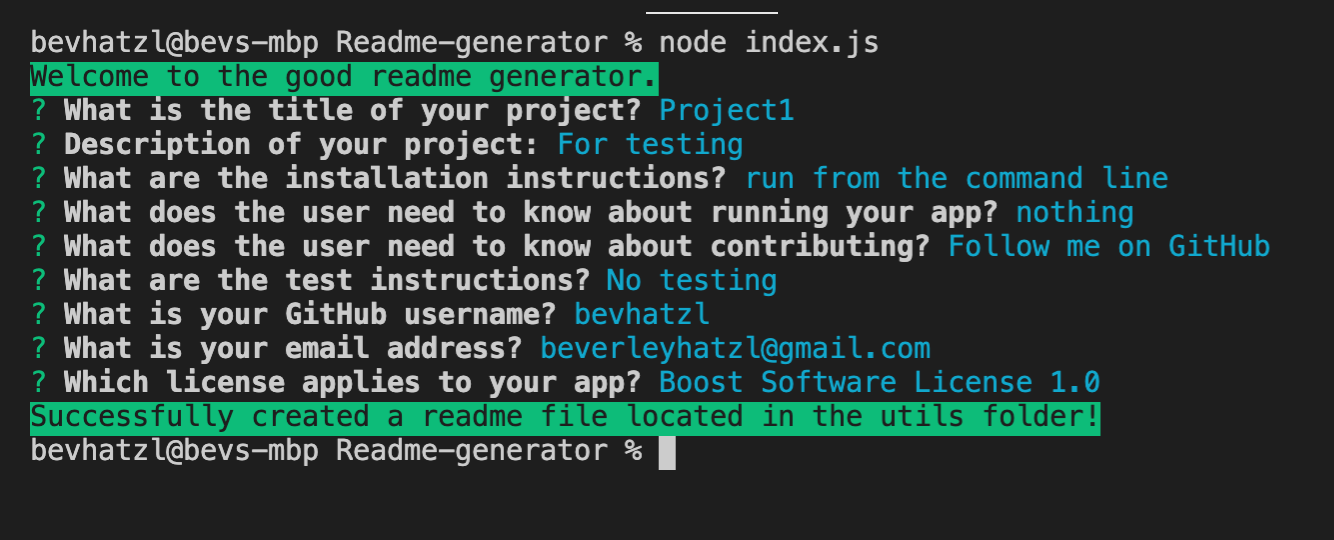
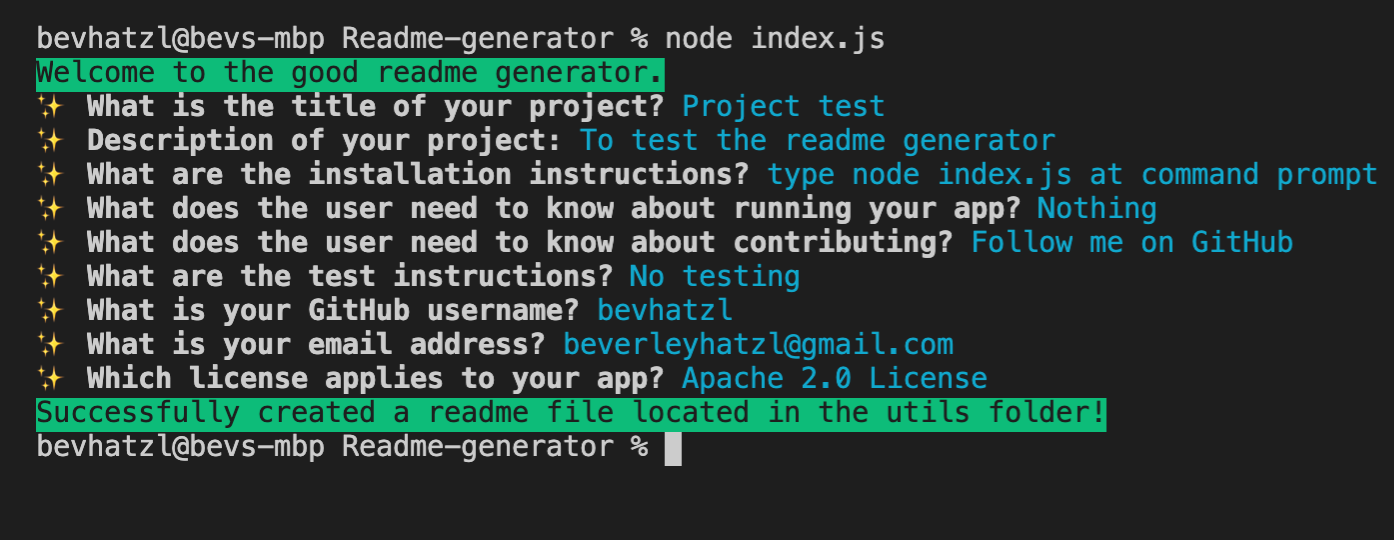
display changes

Changed region(s): [[0.0, 0.0296, 0.9835, 0.8889], [0.4918, 0.0, 0.584, 0.0296]]

diff --git a/index.js b/index.js
@@ -9,6 +9,7 @@ const writeFileAsync = util.promisify(fs.writeFile);
 // Object constructor function for the user input questions
 function Question(message, name) {
     this.type = "input";
+    this.prefix = chalk.yellow('✨');
     this.message = message;
     this.name = name;
 }
@@ -25,6 +26,7 @@ let emailQ = new Question("What is your email address?", "email");
 // Create the license question from a list
 let licenseQ = {
     type: "list",
+    prefix: chalk.yellow('✨'),
     message: "Which license applies to your app?",
     name: "license",
     choices: [
@@ -38,7 +40,6 @@ let licenseQ = {
 const questions = [
     titleQ, descriptionQ, installQ, usageQ, contribQ, testQ, gitHubUserQ, emailQ, licenseQ
 ];
-
 
 function promptUser() {
     return inquirer.prompt(questions);
